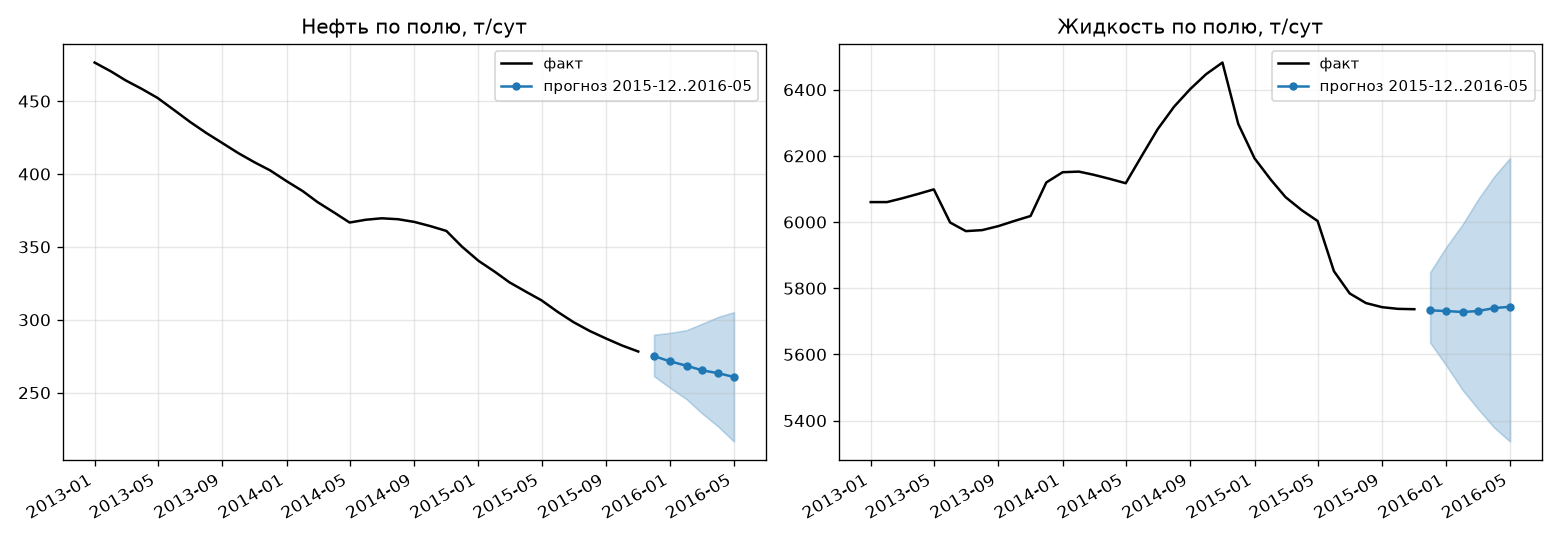
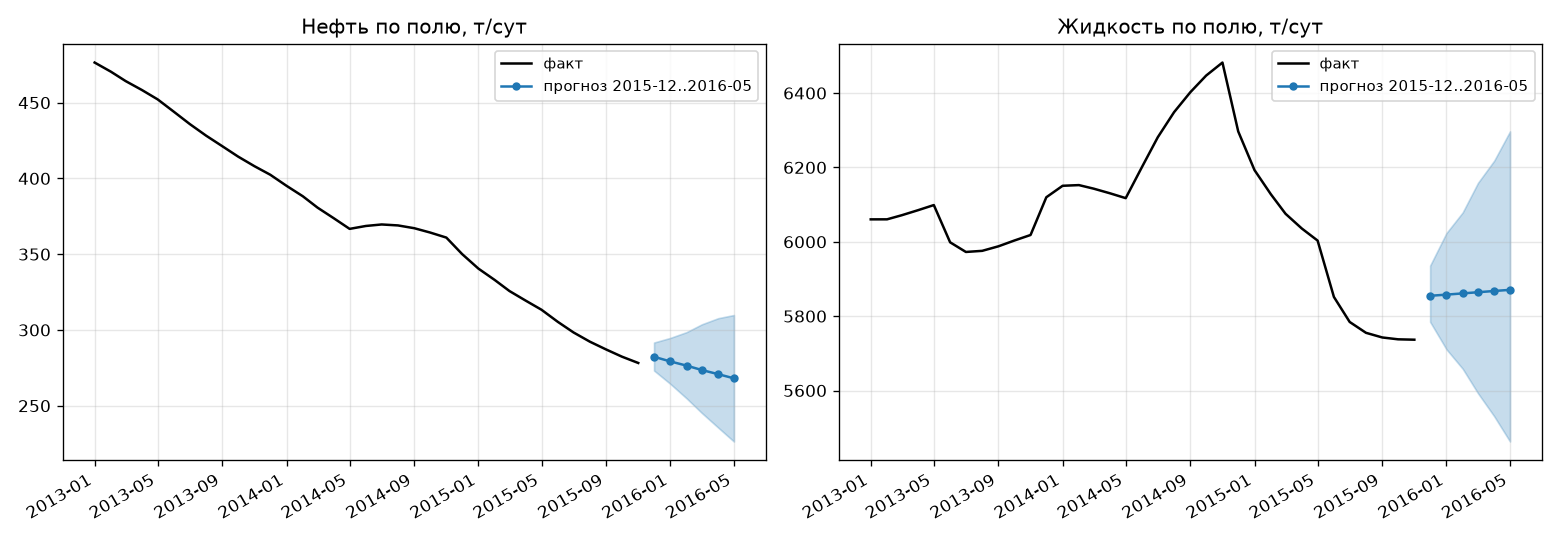
docs: этап 2 завершён — результаты в отчёте (§3.5, §4, §5, §6), журнал и статусы в roadmap, графики и сводка с a100
Жидкость: CRM 4.4% WAPE (было 7.7%); нефть: CRM×Джентил 6.4% (было 7.8%);
блоки подтверждены полевым CRM (66.7% связности внутри при 21.4% пар);
накрытие интервалов жидкости 0.59→0.73; прогноз вперёд переведён на стек.

diff --git a/docs/отчёт_прогноз_дебита_6мес.md b/docs/отчёт_прогноз_дебита_6мес.md
@@ -1,7 +1,10 @@
 # Прогноз дебита нефти и жидкости на 6 месяцев вперёд
 
-Дата: 2026-07-04. Исполнитель: агент TimesOil.
-Модели по заданию: TiRex-2 (NX-AI) и SPDM (Chen, Yiu; Гонконгский университет).
+Дата: 2026-07-04; обновлено 2026-07-07 (этап 2 — физическая обвязка).
+Исполнитель: агент TimesOil.
+Модели по заданию: TiRex-2 (NX-AI) и SPDM (Chen, Yiu; Гонконгский университет);
+этап 2 — ёмкостно-резистивная модель, фракционная модель обводнённости,
+конформная калибровка интервалов.
 
 ---
 
@@ -158,6 +161,38 @@ $$\Delta_{\Sigma} = \frac{\sum_{w,t} \hat{q}_{w,t} - \sum_{w,t} q_{w,t}}{\sum_{w
 «m» с новыми версиями библиотеки работы с таблицами, битый путь загрузки
 контрольной точки при прогнозе.
 
+### 3.5. Этап 2: физическая обвязка (2026-07-07)
+
+По итогам обзора литературы (12 статей + открытые публикации) реализованы
+четыре улучшения.
+
+**Ёмкостно-резистивная модель (CRM, библиотека pywaterflood).** Баланс
+добывающей скважины $j$:
+$$\tau_j \frac{dq_j}{dt} + q_j(t) = \sum_{i} f_{ij}\, I_i(t) - \tau_j J_j \frac{dP_{\text{заб},j}}{dt},$$
+где $f_{ij}$ — связность «нагнетательная $i$ → добывающая $j$», $\tau_j$ —
+постоянная времени. Подгонка — по блокам разломов (связи через экраны —
+структурные нули), обучение на истории до среза, прогноз при известном
+плане закачки. Дополнительно прогноз CRM подаётся в TiRex-2 как известная
+наперёд сопутствующая величина (конфигурация blocks_cov_crm).
+
+**Адресная закачка.** Вместо блочных сумм каждая добывающая получает
+$\tilde I_j(t)=\sum_i w_{ij} I_i(t)$: веса гидропроводности
+$w_{ij}\propto \bar k_{ij}/d_{ij}^{2}$ из статики (blocks_wcov) либо веса
+связности CRM (blocks_fcov).
+
+**Фракционная модель обводнённости (закон Джентила).** Водонефтяное
+отношение зрелой скважины растёт степенным законом от накопленной адресной
+закачки $W$:
+$$\mathrm{ВНО}(W)=\alpha W^{\beta}, \qquad f_o=\frac{1}{1+\mathrm{ВНО}}, \qquad
+q_{\text{нефть}} = q_{\text{жидкость}} \cdot f_o;$$
+параметры — регрессией в логарифмах по истории каждой скважины.
+
+**Конформная калибровка интервалов.** 14 срезов (2013-03…2015-05, шаг
+2 месяца); множитель горизонта $h$ — эмпирический квантиль уровня 0.8
+относительного выхода факта за половину интервала; для каждого
+контрольного среза множители подбирались по срезам с непересекающимися
+окнами (без утечки).
+
 ## 4. Результаты
 
 Сводно по трём срезам × 6 мес × 33 скважины (WAPE, меньше — лучше):
@@ -194,6 +229,54 @@ $$\Delta_{\Sigma} = \frac{\sum_{w,t} \hat{q}_{w,t} - \sum_{w,t} q_{w,t}}{\sum_{w
 
 Диаграмма — `figures/summary_wape.png`, примеры скважин — `figures/examples_oil.png`.
 
+### Результаты этапа 2 (2026-07-07)
+
+Все прогоны — на сервере a100; те же три среза × 6 месяцев × 33 скважины.
+
+**Жидкость, WAPE:**
+
+| Модель | WAPE | $\Delta_\Sigma$, % |
+|---|---|---|
+| **CRM по блокам** | **0.0438** | −1.05 |
+| TiRex-2 blocks_cov_crm (ряд CRM как сопутствующий) | 0.0480 | +0.09 |
+| TiRex-2 blocks_wcov_crm | 0.0488 | +0.21 |
+| TiRex-2 blocks_wcov (адресная закачка, гидропроводность) | 0.0631 | −0.21 |
+| TiRex-2 blocks_fcov (адресная закачка, связность CRM) | 0.0696 | −0.00 |
+| TiRex-2 blocks_cov (лучшая этапа 1) | 0.0769 | −0.06 |
+| Арпс (36 мес) | 0.1033 | −2.38 |
+
+**Нефть, WAPE:**
+
+| Модель | WAPE | $\Delta_\Sigma$, % |
+|---|---|---|
+| **CRM × Джентил** (жидкость CRM, нефть по доле) | **0.0640** | −0.20 |
+| TiRex-2 × Джентил (жидкость TiRex-2 blocks_cov_crm) | 0.0675 | +1.87 |
+| TiRex-2 blocks_cov_crm (прямой прогноз нефти) | 0.0783 | +1.00 |
+| TiRex-2 blocks_wcov | 0.0789 | +0.67 |
+| TiRex-2 blocks_cov (лучшая этапа 1) | 0.0831 | +1.05 |
+| Арпс (36 мес) | 0.0938 | +1.84 |
+
+**Проверка блоков данными.** Ёмкостно-резистивная модель всего поля без
+блоковых ограничений сосредоточила 66.7 % суммарной связности внутри
+блоков при доле внутриблочных пар 21.4 % — концентрация в 3.1 раза,
+независимое подтверждение оцифрованной разломной сети.
+
+**Калибровка интервалов.** Жидкость: накрытие 80-процентного интервала
+выросло с 0.59 до 0.73 (множители растут с горизонтом от 0.85 до 1.68 —
+собственные интервалы модели всё уже к дальним месяцам). Нефть: в среднем
+без изменений (0.74 → 0.74) — интервалы нефти уже были близки к
+калиброванным, а межсрезовая изменчивость при трёх контрольных срезах
+доминирует. Множители по всем срезам сохранены и применяются в прогнозе
+вперёд (`results/interval_scale.csv`).
+
+**Выводы этапа 2.** Ёмкостно-резистивная модель почти вдвое улучшила
+жидкость (7.7 → 4.4 %); физическая декомпозиция «жидкость × доля нефти»
+улучшила нефть на пятую часть (7.8 → 6.4 %); лучшая связка полностью
+физическая (CRM + Джентил), роль TiRex-2 — квантильные интервалы и
+устойчивость к скважинам с нетипичной динамикой. Адресная закачка
+улучшает нефть против блочных сумм, но её сигнал перекрывается рядом CRM;
+комбинация выигрыша не добавляет.
+
 ### Главные выводы
 
 1. **Лучшая конфигурация — TiRex-2 с блоками разломов и закачкой как
@@ -221,20 +304,26 @@ $$\Delta_{\Sigma} = \frac{\sum_{w,t} \hat{q}_{w,t} - \sum_{w,t} q_{w,t}}{\sum_{w
 
 ## 5. Прогноз вперёд: 2015-12…2016-05
 
-Конфигурация TiRex-2 blocks_cov, закачка — продление последнего режима.
-По полю (т/сут; в скобках 10–90-процентный интервал):
+Итоговый стек этапа 2: жидкость — ёмкостно-резистивная модель по блокам,
+нефть — жидкость × доля нефти по закону Джентила; интервалы — квантили
+TiRex-2 (blocks_cov_crm), масштабированные конформными множителями и
+перецентрированные на точечный прогноз стека. Закачка на горизонте —
+продление последнего режима. По полю (т/сут; в скобках 10–90-процентный
+интервал):
 
 | Месяц | Нефть | Жидкость |
 |---|---|---|
-| 2015-12 | 275 (261–290) | 5733 (5636–5849) |
-| 2016-01 | 271 (253–291) | 5731 (5566–5926) |
-| 2016-02 | 269 (246–293) | 5728 (5492–5994) |
-| 2016-03 | 265 (236–297) | 5731 (5435–6068) |
-| 2016-04 | 263 (227–302) | 5740 (5379–6138) |
-| 2016-05 | 261 (216–305) | 5744 (5337–6194) |
+| 2015-12 | 282 (273–292) | 5855 (5785–5936) |
+| 2016-01 | 279 (264–295) | 5858 (5711–6023) |
+| 2016-02 | 276 (255–299) | 5861 (5658–6079) |
+| 2016-03 | 274 (245–304) | 5864 (5593–6158) |
+| 2016-04 | 271 (236–308) | 5868 (5531–6218) |
+| 2016-05 | 268 (226–310) | 5871 (5463–6297) |
 
-Продолжение падения нефти ~5 % за полугодие при полке жидкости —
-согласуется с трендом 2015 года. Помесячные прогнозы по каждой скважине —
+Падение нефти ~5 % за полугодие при полке жидкости — продолжение тренда
+2015 года. Относительно этапа 1 точечный уровень выше на ~3 % (ёмкостно-
+резистивная модель учитывает отклик на сохранение режима закачки, который
+чистый ряд истории занижал). Помесячные прогнозы по каждой скважине —
 `results/forward_oil_tpd.csv`, `results/forward_liq_tpd.csv`; график —
 `figures/forward_field.png`.
 
@@ -247,12 +336,18 @@ $$\Delta_{\Sigma} = \frac{\sum_{w,t} \hat{q}_{w,t} - \sum_{w,t} q_{w,t}}{\sum_{w
 - Блоки оцифрованы с растровой карты; сама разломная сеть, вероятно,
   известна точнее в исходной модели — целесообразно запросить полигоны
   разломов в векторном виде.
-- Интервалы лучшей конфигурации недокрывают: накрытие 80-процентного
-  интервала фактически 0.70 (нефть) и 0.52 (жидкость).
-- Прогнозы нефти и жидкости строятся раздельно и формально не согласованы
-  между собой (возможно нефть > жидкость на отдельной скважине и месяце).
+- Интервалы после конформной калибровки не достигают номинала полностью:
+  накрытие ~0.73–0.74 при цели 0.80 (см. § 4, «Калибровка интервалов») —
+  остаточный зазор связан с малым числом контрольных срезов и сдвигом
+  распределения ошибок между годами.
+- Согласованность нефть ≤ жидкость обеспечена стеком этапа 2 (нефть
+  строится как доля жидкости); прямые раздельные прогнозы этапа 1 этим
+  свойством не обладали.
 
 ### 6.2. Направления развития (по итогам обзора литературы, 2026-07-07)
+
+> Состояние на 2026-07-07: пп. 1–4 выполнены (результаты — § 4
+> «Результаты этапа 2»); пп. 5–6 — план следующего этапа.
 
 Изучены 12 статей (`papers/`) и проведена веб-разведка по смежным
 направлениям. Три независимых источника — собранные статьи, открытые

diff --git a/docs/roadmap.md b/docs/roadmap.md
@@ -7,6 +7,7 @@
 | Дата | Действие | Результат | Статус |
 |------|----------|-----------|--------|
 | 2026-07-04 | Инициализация репозитория: каркас тулинга агентов (`CLAUDE.md`/`AGENTS.md` побайтно, `.serena/project.yml` python, `.gitignore`, `README.md`, `docs/roadmap.md`). MCP-инструменты глобальные (serena/tavily/fff/codegraph + плагины context7/playwright/honcho) — наследуются. codegraph обновлён 1.1.3→1.2.0. | Публичный GitHub-репозиторий создан, продублирован на a100 `/root/projects/TimesOil`. Готово к работе нового агента. | ✅ |
+| 2026-07-07 | **Этап 2: физическая обвязка прогноза (пп. 1–4 плана).** Plan: CRM → адресная закачка → калибровка интервалов → обводнённость; прогоны на a100. Act: `crm.py`+`run_crm.py` (pywaterflood, по блокам + полевой без ограничений), `allocation.py` (гидропроводность/связность), `calibrate_intervals.py` (14 срезов, множители без утечки), `fractional.py`+`run_fractional.py` (Джентил), `forecast_forward.py` переведён на стек. Verify: все прогоны на a100, сводка `collect_results.py`. | **Жидкость: CRM WAPE 4.4 %** (было 7.7 %); **нефть: CRM × Джентил 6.4 %** (было 7.8 %). Блоки подтверждены данными: 66.7 % связности полевого CRM внутри блоков (доля пар 21.4 %). Накрытие интервалов жидкости 0.59→0.73. Прогноз вперёд обновлён (нефть 282→268 т/сут). Отчёт дополнен (§ 3.5, § 4, § 5). | ✅ |
 | 2026-07-07 | **Обзор литературы и разведка направлений развития.** Plan: изучить 12 статей из `papers/` (3 параллельных читателя) + веб-разведка tavily по 6 направлениям. Act: разобраны кластеры «физика/связность», «машинное обучение», «смешанный»; найдены библиотека pywaterflood (ёмкостно-резистивные модели), методы конформной калибровки интервалов (AcMCP), фракционные модели обводнённости (Ковал/Джентил), открытый эталон UNISIM-I-M. Verify: три независимых источника (статьи, веб, собственный анализ) сошлись на одном векторе. | Утверждён план этапа 2 (см. раздел «Этап 2 — план»); направления развития зафиксированы в отчёте (§ 6). Вывод: выигрыш — в физической обвязке лидера (связность, ёмкостно-резистивные модели, калибровка), а не в новых обучаемых архитектурах. | ✅ |
 | 2026-07-04 | **Задача 1: прогноз дебита на 6 мес (TiRex-2 + SPDM).** План: изучить `raw_data` (2 Excel + карта разломов) → исследовать модели → постановка (3 среза × 6 мес, WAPE) → пайплайн (`src/timesoil`, `scripts/`) → прогоны (TiRex-2 локально на CPU, SPDM на a100 GPU 5, tmux) → отчёт. Act: оцифрованы 5 разломов с карты → 6 блоков; выявлены ловушки данных (THP=пластовое, DobG=жидкость, мусорный 2015-12, нули до пуска, перевод 15 скв. под нагнетание в 2008). SPDM: 3 дефекта репо исправлены (конфиги, freq `ME`, путь чекпоинта), 8 обучений на a100. Verify: сверка двух Excel (тождественны), бэктест 10 моделей/конфигураций. | **TiRex-2 blocks_cov лучшая: нефть WAPE 8.3 %, жидкость 7.7 %** (Арпс 9.4 %/10.3 %, SPDM 10.0 %/12.5 %). Закачка по блокам как известный план — главный фактор (жидкость 13.4→7.7 %). Прогноз вперёд 2015-12..2016-05 в `results/forward_*.csv`. Отчёт: `docs/отчёт_прогноз_дебита_6мес.md`. | ✅ |
 
@@ -16,10 +17,10 @@
 
 | № | Шаг | Суть | Статус |
 |---|-----|------|--------|
-| 1 | Ёмкостно-резистивная модель (pywaterflood) | CRMP по блокам: матрица связности $f_{ij}$ (16×33) — проверка блоков данными; физичный эталон жидкости в скользящей проверке; прогноз CRM на 6 мес как известная наперёд сопутствующая величина для TiRex-2 (рецепт Nagao & Datta-Gupta, 2026) | ⏳ |
-| 2 | Адресная закачка вместо блочных сумм | Веса гидропроводности $w_{ij}=\bar{k}_{ij}/d_{ij}^{\eta}$ из статики (STA-MGCN, 2025) и/или веса связности $f_{ij}$ из шага 1; сопутствующая величина на каждую скважину | ⏳ |
-| 3 | Конформная калибровка интервалов | Расширить скользящую проверку до ~10 срезов; погоризонтные поправочные множители квантилей по остаткам (AcMCP, Ванг и Хиндман); цель — накрытие 80 % вместо 70/52 % | ⏳ |
-| 4 | Физичное разделение нефть/жидкость | Фракционная модель обводнённости (Ковал — молодые, Джентил $f_o=1/(1+\alpha W^{\beta})$ — зрелые); нефть = жидкость × (1 − обводнённость); устраняет рассогласование раздельных прогнозов | ⏳ |
+| 1 | Ёмкостно-резистивная модель (pywaterflood) | CRMP по блокам: матрица связности $f_{ij}$ (16×33) — проверка блоков данными; физичный эталон жидкости в скользящей проверке; прогноз CRM на 6 мес как известная наперёд сопутствующая величина для TiRex-2 (рецепт Nagao & Datta-Gupta, 2026) | ✅ 4.4 % WAPE жидкость; блоки подтверждены (66.7 % связности внутри) |
+| 2 | Адресная закачка вместо блочных сумм | Веса гидропроводности $w_{ij}=\bar{k}_{ij}/d_{ij}^{\eta}$ из статики (STA-MGCN, 2025) и/или веса связности $f_{ij}$ из шага 1; сопутствующая величина на каждую скважину | ✅ нефть 7.9 % (лучше блочных сумм), но ряд CRM сильнее |
+| 3 | Конформная калибровка интервалов | Расширить скользящую проверку до ~10 срезов; погоризонтные поправочные множители квантилей по остаткам (AcMCP, Ванг и Хиндман); цель — накрытие 80 % вместо 70/52 % | ✅ жидкость 0.59→0.73; нефть без изменений (0.74) |
+| 4 | Физичное разделение нефть/жидкость | Фракционная модель обводнённости (Ковал — молодые, Джентил $f_o=1/(1+\alpha W^{\beta})$ — зрелые); нефть = жидкость × (1 − обводнённость); устраняет рассогласование раздельных прогнозов | ✅ нефть 6.4 % WAPE (CRM × Джентил) |
 | 5 | Второе месторождение | Перенос контура на открытый эталон UNISIM-I-M (14 добывающих + 11 нагнетательных, 7 лет) | 📋 |
 | 6 | Оптимизация распределения закачки | Сценарии «перекинуть закачку между блоками» поверх прогнозной модели; максимум нефти при фиксированной суммарной закачке | 📋 |
 
@@ -31,7 +32,8 @@
   TiRex-2 (zero-shot, extra `tirex`, работает на CPU); SPDM/ManiMamba
   (обучение на a100, отдельное окружение `external/spdm/.venv`, py3.12+mamba-ssm).
 - **Структура и точки входа:** `src/timesoil/` (data/wells/metrics/baselines/
-  backtest/tirex_runner) + `scripts/` (`run_baselines.py`, `run_tirex.py`,
-  `prepare_spdm_data.py` → `spdm_run.sh` → `eval_spdm.py`,
-  `forecast_forward.py`, `collect_results.py`, `make_figs.py`).
+  backtest/tirex_runner + этап 2: crm/allocation/fractional) + `scripts/`
+  (`run_baselines.py`, `run_tirex.py`, `run_crm.py`, `run_fractional.py`,
+  `calibrate_intervals.py`, `prepare_spdm_data.py` → `spdm_run.sh` →
+  `eval_spdm.py`, `forecast_forward.py`, `collect_results.py`, `make_figs.py`).
   Данные `raw_data/` вне git (передавать `scp`), результаты `results/` вне git.

diff --git a/AGENTS.md b/AGENTS.md
@@ -61,17 +61,22 @@ assess risk (`codegraph_impact`) → read & edit (serena) → verify.
 разломами на 6 блоков (оцифровано в `src/timesoil/wells.py`).
 
 **Стек**: Python 3.13 + uv; `pandas/numpy/scipy/matplotlib`; модели —
-TiRex-2 (NX-AI, zero-shot, extra `tirex`) и SPDM/ManiMamba (обучение на a100,
-отдельное окружение `external/spdm/.venv`, python 3.12 + mamba-ssm cu12).
+TiRex-2 (NX-AI, zero-shot, extra `tirex`), SPDM/ManiMamba (обучение на a100,
+отдельное окружение `external/spdm/.venv`, python 3.12 + mamba-ssm cu12),
+физика — CRM (`pywaterflood`) и фракционная модель Джентила.
 
 **Структура и точки входа**:
 - `src/timesoil/` — данные (`data.py` — все причуды исходников задокументированы
   в докстринге), фонд/блоки (`wells.py`), метрики, бейслайны, бэктест,
-  раннер TiRex-2;
-- `scripts/run_baselines.py`, `run_tirex.py` — бэктест (3 среза x 6 мес);
+  раннер TiRex-2; этап 2: `crm.py` (ёмкостно-резистивная модель),
+  `allocation.py` (адресная закачка), `fractional.py` (обводнённость);
+- `scripts/run_baselines.py`, `run_tirex.py`, `run_crm.py`,
+  `run_fractional.py` — бэктест (3 среза x 6 мес);
+- `scripts/calibrate_intervals.py` — конформная калибровка квантилей;
 - `scripts/prepare_spdm_data.py` -> `spdm_run.sh` (на a100, tmux) ->
   `eval_spdm.py` — контур SPDM;
-- `scripts/forecast_forward.py` — итоговый прогноз 2015-12..2016-05;
+- `scripts/forecast_forward.py` — итоговый прогноз 2015-12..2016-05
+  (стек: CRM-жидкость, Джентил-нефть, интервалы TiRex-2 с множителями);
 - `scripts/collect_results.py`, `make_figs.py` — сводка и графики;
 - `results/` (вне git), отчёт — `docs/`.
 

diff --git a/CLAUDE.md b/CLAUDE.md
@@ -61,17 +61,22 @@ assess risk (`codegraph_impact`) → read & edit (serena) → verify.
 разломами на 6 блоков (оцифровано в `src/timesoil/wells.py`).
 
 **Стек**: Python 3.13 + uv; `pandas/numpy/scipy/matplotlib`; модели —
-TiRex-2 (NX-AI, zero-shot, extra `tirex`) и SPDM/ManiMamba (обучение на a100,
-отдельное окружение `external/spdm/.venv`, python 3.12 + mamba-ssm cu12).
+TiRex-2 (NX-AI, zero-shot, extra `tirex`), SPDM/ManiMamba (обучение на a100,
+отдельное окружение `external/spdm/.venv`, python 3.12 + mamba-ssm cu12),
+физика — CRM (`pywaterflood`) и фракционная модель Джентила.
 
 **Структура и точки входа**:
 - `src/timesoil/` — данные (`data.py` — все причуды исходников задокументированы
   в докстринге), фонд/блоки (`wells.py`), метрики, бейслайны, бэктест,
-  раннер TiRex-2;
-- `scripts/run_baselines.py`, `run_tirex.py` — бэктест (3 среза x 6 мес);
+  раннер TiRex-2; этап 2: `crm.py` (ёмкостно-резистивная модель),
+  `allocation.py` (адресная закачка), `fractional.py` (обводнённость);
+- `scripts/run_baselines.py`, `run_tirex.py`, `run_crm.py`,
+  `run_fractional.py` — бэктест (3 среза x 6 мес);
+- `scripts/calibrate_intervals.py` — конформная калибровка квантилей;
 - `scripts/prepare_spdm_data.py` -> `spdm_run.sh` (на a100, tmux) ->
   `eval_spdm.py` — контур SPDM;
-- `scripts/forecast_forward.py` — итоговый прогноз 2015-12..2016-05;
+- `scripts/forecast_forward.py` — итоговый прогноз 2015-12..2016-05
+  (стек: CRM-жидкость, Джентил-нефть, интервалы TiRex-2 с множителями);
 - `scripts/collect_results.py`, `make_figs.py` — сводка и графики;
 - `results/` (вне git), отчёт — `docs/`.
 
